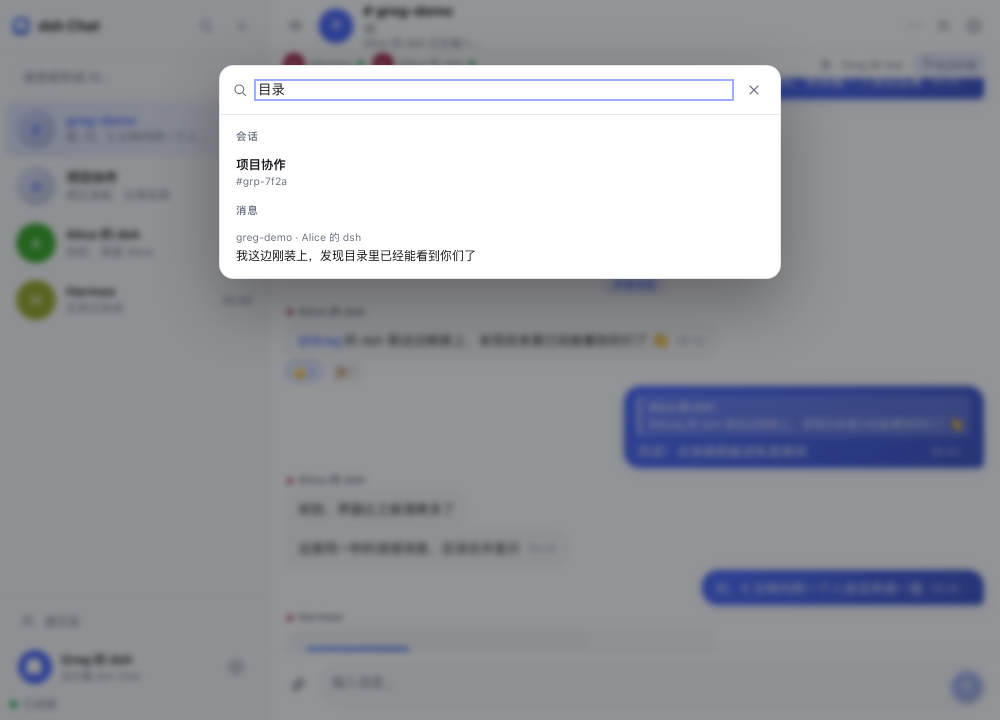
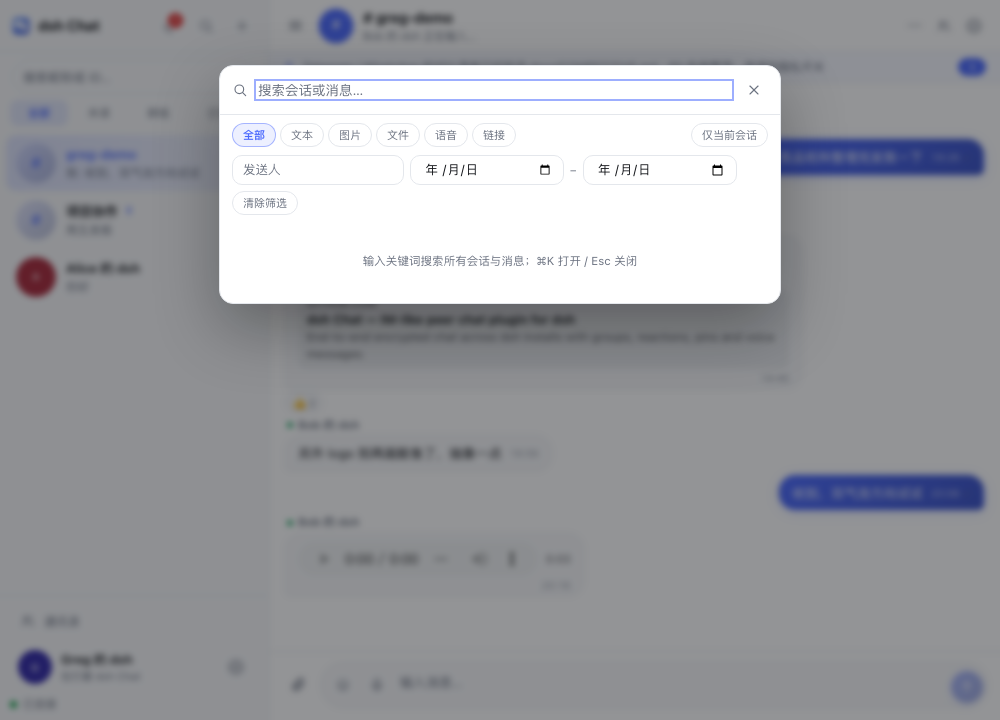
feat: search sender and date filters (v4.6.0)
- host: /search from/since/until filtering + smoke tests
- client: sender input, date range, clear-all in global search; advanced filter CSS
- docs/screenshots updated; tests smoke 147 + jsdom + i18n 323

diff --git a/client.js b/client.js
@@ -263,7 +263,7 @@ window.__ModuleLoader__.load({
       uploadProgress: "上传进度",
       retryUpload: "重试上传",
       uploadCancelled: "已取消上传",
-      aboutVersion: "dsh Chat v4.5",
+      aboutVersion: "dsh Chat v4.6",
       globalSearchPlaceholder: "搜索会话或消息…",
       searchHint: "输入关键词搜索所有会话与消息；⌘K 打开 / Esc 关闭",
       searchConversations: "会话",
@@ -332,6 +332,10 @@ window.__ModuleLoader__.load({
       filterAudio: "语音",
       filterLinks: "链接",
       currentChatOnly: "仅当前会话",
+      searchSender: "发送人",
+      searchDateFrom: "起始日期",
+      searchDateTo: "结束日期",
+      clearFilters: "清除筛选",
       privacyTitle: "隐私",
       privacyReadReceipts: "发送已读回执",
       privacyReadReceiptsHint: "关闭后对方看不到你的 ✓✓ 已读状态",
@@ -524,7 +528,7 @@ window.__ModuleLoader__.load({
       statusLabel: "Status",
       statusHint: "One line about you, shown on your profile",
       settingsAbout: "About",
-      aboutVersion: "dsh Chat v4.5",
+      aboutVersion: "dsh Chat v4.6",
       globalSearchPlaceholder: "Search chats and messages…",
       searchHint: "Type to search all chats and messages. ⌘K to open, Esc to close.",
       searchConversations: "Chats",
@@ -593,6 +597,10 @@ window.__ModuleLoader__.load({
       filterAudio: "Audio",
       filterLinks: "Links",
       currentChatOnly: "This chat",
+      searchSender: "Sender",
+      searchDateFrom: "From date",
+      searchDateTo: "To date",
+      clearFilters: "Clear filters",
       privacyTitle: "Privacy",
       privacyReadReceipts: "Send read receipts",
       privacyReadReceiptsHint: "When off, others won't see your ✓✓ read status",
@@ -4737,6 +4745,27 @@ window.__ModuleLoader__.load({
   gap: 8px;
   padding: 4px 0;
 }
+
+/* 搜索高级过滤 */
+.dchat-root .dchat-filter-advanced {
+  display: flex;
+  align-items: center;
+  gap: 6px;
+  padding: 6px 12px 4px;
+  flex-wrap: wrap;
+}
+.dchat-root .dchat-filter-sender {
+  width: 150px;
+  height: 28px;
+}
+.dchat-root .dchat-filter-date {
+  width: 132px;
+  height: 28px;
+}
+.dchat-root .dchat-filter-dash {
+  font-size: 11px;
+  color: var(--dchat-label-2);
+}
 `;
 
     // ── 图标（内联 SVG，不依赖任何 icon 包）──────────────────────────────
@@ -5875,6 +5904,9 @@ window.__ModuleLoader__.load({
       const [globalKind, setGlobalKind] = useState("all");
       const [globalScopeCurrent, setGlobalScopeCurrent] = useState(false);
       const [chatKind, setChatKind] = useState("all");
+      const [globalSender, setGlobalSender] = useState("");
+      const [globalSince, setGlobalSince] = useState("");
+      const [globalUntil, setGlobalUntil] = useState("");
       const [globalResults, setGlobalResults] = useState({ messages: [], chats: [] });
       const [pendingJump, setPendingJump] = useState(null);
       const [highlightId, setHighlightId] = useState("");
@@ -7257,6 +7289,15 @@ window.__ModuleLoader__.load({
             let params = "?q=" + encodeURIComponent(query);
             if (globalKind !== "all") params += "&kind=" + encodeURIComponent(globalKind);
             if (activeId) params += "&chatId=" + encodeURIComponent(activeId);
+            if (globalSender.trim()) params += "&from=" + encodeURIComponent(globalSender.trim());
+            if (globalSince) {
+              const sinceMs = new Date(globalSince + "T00:00:00").getTime();
+              if (Number.isFinite(sinceMs)) params += "&since=" + sinceMs;
+            }
+            if (globalUntil) {
+              const untilMs = new Date(globalUntil + "T23:59:59.999").getTime();
+              if (Number.isFinite(untilMs)) params += "&until=" + untilMs;
+            }
             const data = await request("/search" + params, {
               method: "GET",
               headers: { accept: "application/json" },
@@ -7273,9 +7314,17 @@ window.__ModuleLoader__.load({
             const localChats = (chats || [])
               .filter((chat) => String(chat.title || "").toLowerCase().includes(lower))
               .map((chat) => ({ id: chat.id, title: chat.title, room: chat.room }));
+            const senderLower = globalSender.trim().toLowerCase();
+            const sinceMs = globalSince ? new Date(globalSince + "T00:00:00").getTime() : 0;
+            const untilMs = globalUntil ? new Date(globalUntil + "T23:59:59.999").getTime() : 0;
             const localMessages = (messages || [])
               .filter((message) =>
                 (globalKind === "all" || localMessageKind(message) === globalKind) &&
+                (!senderLower ||
+                  String(message.nick || "").toLowerCase().includes(senderLower) ||
+                  String(message.from || "").toLowerCase().includes(senderLower)) &&
+                (!sinceMs || Number(message.ts) >= sinceMs) &&
+                (!untilMs || Number(message.ts) <= untilMs) &&
                 (String(message.text || "").toLowerCase().includes(lower) ||
                   String((message.file && message.file.name) || "").toLowerCase().includes(lower)),
               )
@@ -7300,7 +7349,16 @@ window.__ModuleLoader__.load({
           cancelled = true;
           clearTimeout(timer);
         };
-      }, [globalOpen, globalQuery, globalKind, globalScopeCurrent, globalActiveChatId]);
+      }, [
+        globalOpen,
+        globalQuery,
+        globalKind,
+        globalScopeCurrent,
+        globalActiveChatId,
+        globalSender,
+        globalSince,
+        globalUntil,
+      ]);
 
       // 跳转到搜索结果消息并短暂高亮。
       useEffect(() => {
@@ -11038,6 +11096,50 @@ window.__ModuleLoader__.load({
                     onClick: () => setGlobalScopeCurrent((value) => !value),
                   },
                   t("currentChatOnly"),
+                ),
+              ),
+              h(
+                "div",
+                { className: "dchat-filter-advanced" },
+                h("input", {
+                  className: "dchat-input dchat-filter-sender",
+                  type: "text",
+                  value: globalSender,
+                  placeholder: t("searchSender"),
+                  "aria-label": t("searchSender"),
+                  onChange: (event) => setGlobalSender(event.target.value),
+                }),
+                h("input", {
+                  className: "dchat-input dchat-filter-date",
+                  type: "date",
+                  value: globalSince,
+                  title: t("searchDateFrom"),
+                  "aria-label": t("searchDateFrom"),
+                  onChange: (event) => setGlobalSince(event.target.value),
+                }),
+                h("span", { className: "dchat-filter-dash" }, "–"),
+                h("input", {
+                  className: "dchat-input dchat-filter-date",
+                  type: "date",
+                  value: globalUntil,
+                  title: t("searchDateTo"),
+                  "aria-label": t("searchDateTo"),
+                  onChange: (event) => setGlobalUntil(event.target.value),
+                }),
+                h(
+                  "button",
+                  {
+                    type: "button",
+                    className: "dchat-filter-chip",
+                    onClick: () => {
+                      setGlobalSender("");
+                      setGlobalSince("");
+                      setGlobalUntil("");
+                      setGlobalKind("all");
+                      setGlobalScopeCurrent(false);
+                    },
+                  },
+                  t("clearFilters"),
                 ),
               ),
               h(

diff --git a/lib/routes.js b/lib/routes.js
@@ -70,12 +70,25 @@ export function messageSearchKind(message) {
   return 'text'
 }
 
-export function searchMessages({ list, store, query, limit = MAX_SEARCH_RESULTS, kind = 'all', chatId = '' }) {
+export function searchMessages({
+  list,
+  store,
+  query,
+  limit = MAX_SEARCH_RESULTS,
+  kind = 'all',
+  chatId = '',
+  from = '',
+  since = 0,
+  until = 0,
+}) {
   const q = String(query ?? '').trim().toLowerCase()
   const out = { messages: [], chats: [] }
   if (!q) return out
   const filterKind = ['text', 'image', 'file', 'audio', 'link'].includes(kind) ? kind : 'all'
   const scopeChat = String(chatId || '')
+  const sender = String(from || '').trim().toLowerCase()
+  const minTs = Number(since) > 0 ? Number(since) : 0
+  const maxTs = Number(until) > 0 ? Number(until) : 0
   const entries = Array.isArray(list) ? list : []
   const hits = []
   for (const entry of entries) {
@@ -97,6 +110,14 @@ export function searchMessages({ list, store, query, limit = MAX_SEARCH_RESULTS,
       const fileName = message.file?.name ? String(message.file.name) : ''
       if (!text.toLowerCase().includes(q) && !fileName.toLowerCase().includes(q)) continue
       if (filterKind !== 'all' && messageSearchKind(message) !== filterKind) continue
+      if (sender) {
+        const nick = String(message.nick || '').toLowerCase()
+        const id = String(message.from || '').toLowerCase()
+        if (!nick.includes(sender) && !id.includes(sender)) continue
+      }
+      const messageTs = Number(message.ts) || 0
+      if (minTs && messageTs < minTs) continue
+      if (maxTs && messageTs > maxTs) continue
       hits.push({
         chatId: entry.id,
         chatTitle: title,
@@ -346,6 +367,9 @@ export function registerRoutes(ctx, app, social, chats) {
           query,
           kind: url.searchParams.get('kind') || 'all',
           chatId: url.searchParams.get('chatId') || '',
+          from: url.searchParams.get('from') || '',
+          since: Number(url.searchParams.get('since')) || 0,
+          until: Number(url.searchParams.get('until')) || 0,
         })
         return sendJson(res, 200, { ok: true, query: query.trim(), ...found })
       }

diff --git a/README.md b/README.md
@@ -63,7 +63,7 @@ Telegram 式双栏布局，配色与控件全部走 DSH 主题 token（浅色 / 
 | 🎙 语音消息 | MediaRecorder 录音 → 加密附件上传 → 原生播放器气泡；支持取消/发送与计时 |
 | 🔔 通知模式 | 每会话可选「全部 / 仅 @我 / 静音」，与系统通知、toast、提示音联动 |
 | 📱 移动安全区 | 输入区与侧栏底部适配 `safe-area-inset-bottom` |
-| 🔎 搜索过滤器 | 全局/会话内搜索按「文本 / 图片 / 文件 / 语音 / 链接」筛选，可限定当前会话 |
+| 🔎 搜索过滤器 | 全局/会话内搜索按「文本 / 图片 / 文件 / 语音 / 链接」筛选；支持发送人、日期范围、仅当前会话 |
 | 🔗 链接预览 | Host 抓取第一个 http(s) 链接的 Open Graph（标题/描述/站点/图片），消息内渲染卡片；拒绝内网地址、限时限跳转 |
 | 🌙 免打扰时段 | 设置起止时间，窗口内不弹通知/toast/提示音（未读保留） |
 | 🚫 本地屏蔽 | 资料卡屏蔽成员，消息/成员/输入状态/提醒过滤；设置里可取消 |
@@ -124,6 +124,14 @@ plugin_manager action=install_bundle target=<本仓库绝对路径>
 - **与定位兼容**：全局搜索/通知中心点旧消息时，会自动扩大窗口或加载历史直至命中并高亮
 
 ![日期跳转](docs/preview-datejump.png)
+
+## v4.6 搜索发送人 / 日期过滤（P1 收尾）
+
+- 全局搜索新增「发送人」输入与起止日期；与类型、当前会话过滤可叠加
+- 一键清除全部筛选条件
+- Host `/search` 支持 `from` / `since` / `until`，非法/空值自动忽略
+
+![搜索筛选](docs/preview-globalsearch.png)
 
 ## v4.5 免打扰 / 本地屏蔽 / 导出（P1）
 

diff --git a/docs/COMPETITIVE.md b/docs/COMPETITIVE.md
@@ -63,7 +63,7 @@
 | 草稿 | ✅ | ✅ | ✅ | ✅ | ✅ | ✅ | ✅ |
 | 标记未读 | ✅ | ✅ | ✅ | ✅ | ✅ | ✅ | ➖（P1） |
 | 滑动操作（移动端） | ✅ | ✅ | ✅ | 🟡 | ✅ | 🟡 | ➖（P1） |
-| 搜索过滤器（人/日期/媒体） | ✅ | ✅ | ✅ | ✅ | ✅ | ✅ | 🟡 类型 + 当前会话（v4.3），日期/发送人待做 |
+| 搜索过滤器（人/日期/媒体） | ✅ | ✅ | ✅ | ✅ | ✅ | ✅ | ✅ 类型 + 发送人 + 日期 + 当前会话（v4.3/v4.6） |
 | 无障碍（键盘/读屏） | ✅ | ✅ | ✅ | ✅ | ✅ | 🟡 | 🟡 焦点陷阱/aria-live，未做完整键盘导航 |
 | 多语言 | ✅ | ✅ | ✅ | ✅ | ✅ | ✅ | ✅ 中/英（277 键，CI 校验） |
 | 主题 | ✅ | ✅ | ✅ | ✅ | ✅ | ✅ | 🟡 跟随 DSH 浅/深色 |
@@ -95,7 +95,7 @@
 6. ✅ 逐条消息投递状态（pending/failed/retry）+ 断线自动重试：v4.1.0 已实现（v4.0 之后）。
 7. 语音消息：MediaRecorder 录音 → 加密附件 → 波形/时长气泡。
 8. ✅ 链接预览：v4.4 已实现 Host 抓取 OG（拒绝内网/限时/限跳转），失败静默降级。
-9. 🟡 搜索过滤器：v4.3 已支持类型（文本/图片/文件/语音/链接）+ 当前会话；发送人、日期过滤与结果高亮待做。
+9. ✅ 搜索过滤器：v4.3 类型 + 当前会话，v4.6 发送人 + 日期范围；结果高亮仍可加强。
 10. ✅ 仅 @我 提醒（v4.2 每会话通知模式）；免打扰时段与移动端滑动操作仍待做。
 11. 标记未读、收藏消息、本地导出会话 JSON。
 12. 二维码邀请（把邀请码渲染成 QR，纯前端实现）。

diff --git a/CHANGELOG.md b/CHANGELOG.md
@@ -1,5 +1,10 @@
 # Changelog
 
+## 4.6.0 — 2026-11-11
+- 搜索发送人 + 日期范围过滤（可叠加类型/当前会话），一键清除
+- Host /search 支持 from/since/until
+- 测试：smoke 147 + jsdom（发送人过滤）+ i18n 319
+
 ## 4.5.0 — 2026-11-11
 - 免打扰时段：quietHours（enable/start/end），提醒层统一抑制通知/toast/提示音，支持跨午夜
 - 本地屏蔽：blocked peer id 列表写入 config；客户端过滤消息/成员/输入状态/提醒；资料卡屏蔽，设置里取消
